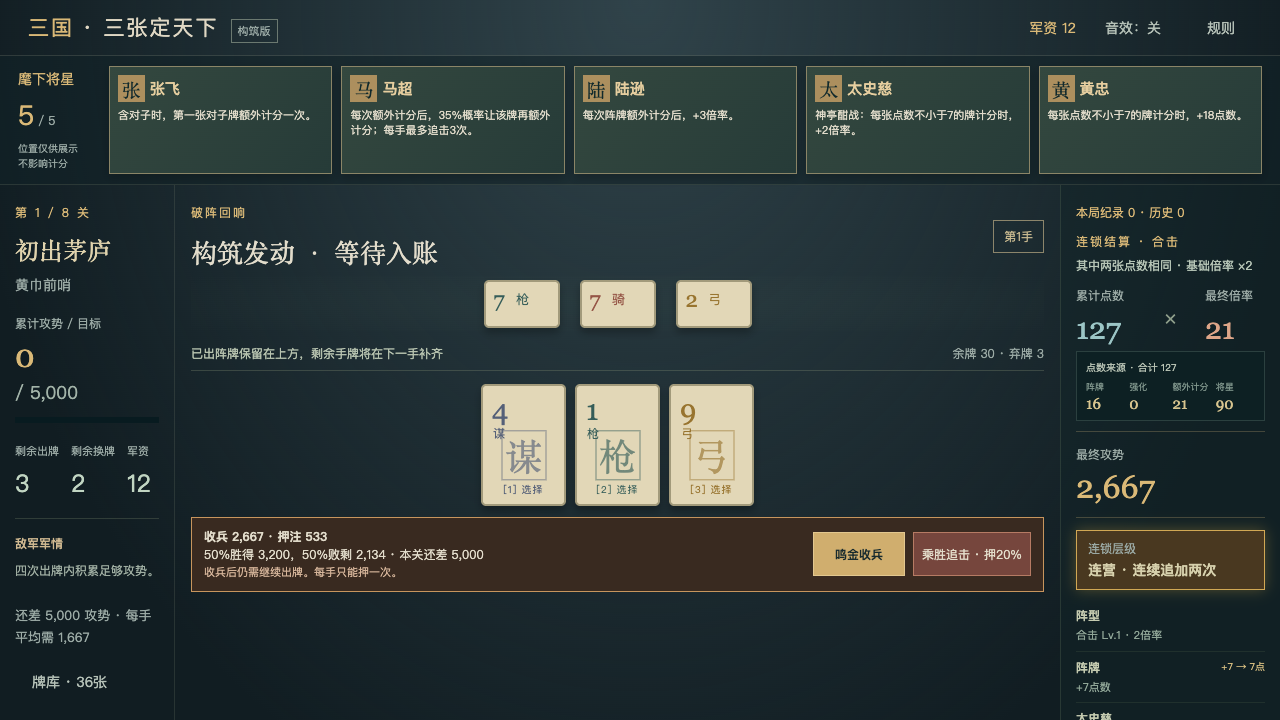
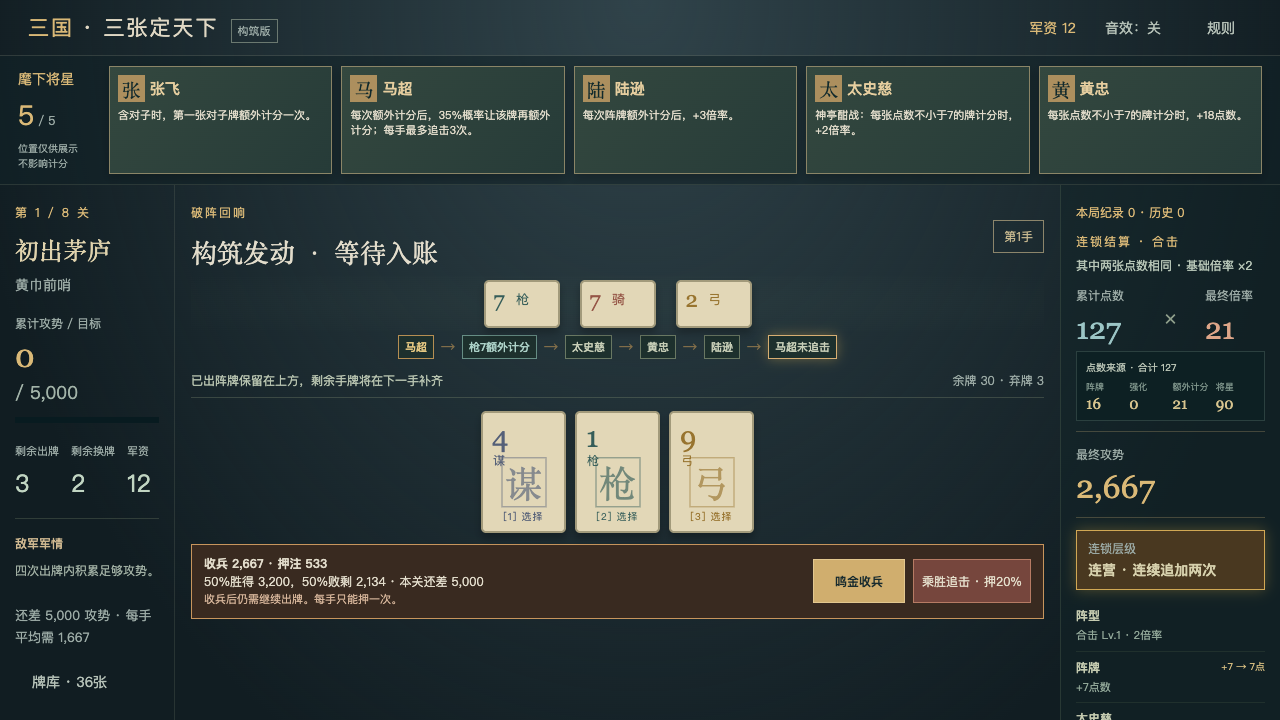
feat: surface settlement causal chains

Changed region(s): [[0.125, 0.5194, 0.8125, 0.8861], [0.1562, 0.4583, 0.6562, 0.55], [0.75, 0.4889, 0.8125, 0.55]]

diff --git a/apps/playtest/src/main.ts b/apps/playtest/src/main.ts
@@ -1,6 +1,7 @@
 import {gamblePanel,rarityPanel} from './burst';
 import {bossPanel} from './boss';
 import {runBossMotion} from './boss-motion';
+import {settlementCausalPanel} from './settlement-causality';
 import {bossEncounter,forgeRule,newForge,forgeAction,forgeView,previewForge,saveForge,loadForge,backupForge,type ForgeState,type ForgeAction,type ArmyCard,type Score} from '@three-card/core';
 import {forgeStage,companionRarity,RARITY_NAMES,COMPANIONS,COMPANION_IDS,EDITS,STAGES,SUITS,FORGE_RULES as R,HAND_NAMES,SUIT_NAMES,type CompanionId,type ForgeEdit} from '@three-card/content';
 const root=document.querySelector<HTMLDivElement>('#app')!;
@@ -38,7 +39,7 @@ function scorePanel(score:Score|null,actual=false){if(!score)return`<p class="ey
 function render(){const v=state?forgeView(state):null;const boss=v?bossEncounter(v):null;const shifted=!!(v?.phase==='result'&&v.settlement!=='pending'&&boss&&v.score<v.target&&v.score>=boss.threshold&&v.score-v.result!.total<boss.threshold);let preview:Score|null=null;if(state&&chosen.length===3&&state.phase==='battle')try{preview=previewForge(state,chosen);}catch{}
 let body='';if(home){body=`<section class="landing"><div><p class="eyebrow">构筑试验 · v0.7 · 将星自由连携</p><h1>三张为阵<br><em>百策成军</em></h1><p class="lead">让一位将星发起额外计分，再看谁会接力响应。<br>三张牌点数相加，再乘阵型倍率。</p><label class="seed-label">征程种子 · 留空随机<input id="seed" maxlength="100" placeholder="输入种子，可重玩同一组随机选择"></label><div class="actions">${btn('启程 · 先选核心','new',false,'primary')}${btn('连锁试玩 · 直达张角','demo')}${state?btn('继续征程','continue'):''}${btn('怎么玩','help')}</div><p class="record-line">历史单手纪录 ${fmt(bestEver)}</p><p class="muted">八关征程 · 12位活跃将星 · 每次只处理一种整编<br>1–6 选牌，Enter 出牌。开局核心可以自由选择。</p></div><div class="landing-art"><div class="disc"></div><img src="./assets/zhao-yun.png" alt="赵云像素立绘"><span>一手牌的强弱<br>由你的构筑决定</span></div></section>`;}
 else if(v){body=band();if(['recruit','forge','shop'].includes(v.phase)){const next=forgeStage({...v,stage:Math.min(7,v.stage+1),challenge:v.stage===7?v.challenge+1:0});body+=`<div class=next-threat><b>斥候来报 · 下一关 ${next.enemy} · 目标 ${fmt(next.target)}</b><span>${next.text}</span></div>`;}if(['recruit','shop'].includes(v.phase))body+=rarityPanel(state!);if(v.phase==='starter'){body+=`<section class="wide-node"><p class="eyebrow">开局征募 · 决定第一步，后面仍可转型</p><h1>这一局，从谁开始？</h1><p>先拿到一个核心，再让奖励、改牌与商店帮你把它变强。</p><div class="recruit-grid">${v.recruits.map(id=>companion(id,`starter:${id}`)).join('')}</div></section>`;}
-else if(['battle','result'].includes(v.phase)){const actual=v.phase==='result',sc=actual?v.result:preview,ready=showAll||animation>=(v.result?.steps.length??0);body+=`<div class="battle-layout ${boss?'boss-battle':''}"><aside class="campaign-panel"><p class="eyebrow">${v.challenge?`极限挑战 · ${v.challenge}层`:`第 ${v.stage+1} / 8 关`}</p><h2>${forgeStage(v).name}</h2><p>${forgeStage(v).enemy}</p><div class="goal"><small>${boss?'已削减兵力 / 总兵力':'累计攻势 / 目标'}</small><b>${fmt(v.score)}</b><span>/ ${fmt(v.target)}</span><progress max="${v.target}" value="${Math.min(v.score,v.target)}"></progress></div><div class="resources"><div><small>剩余出牌</small><b>${v.hands}</b></div><div><small>剩余换牌</small><b>${v.discards}</b></div><div><small>军资</small><b>${v.gold}</b></div></div><div class="boss-rule"><b>${v.pressed?'加压出征 · 目标 +50%':'敌军军情'}</b><p>${boss?boss.current.text:forgeStage(v).text}</p>${forgeRule(v)==='ambush'?`<p class=threat-state>${v.scouted?'本手已破伏击 · 全额攻势':'伏击生效 · 换牌可解除'}</p>`:forgeStage(v).rule==='flank'?`<p class=threat-state>上手首牌：${v.lastSuit?SUIT_NAMES[v.lastSuit]:'尚未出阵'} · 按手牌从左至右判定</p>`:''}</div><p class=remaining-target>还差 ${fmt(Math.max(0,v.target-v.score))} 攻势${v.hands>0?` · 每手平均需 ${fmt(Math.ceil(Math.max(0,v.target-v.score)/v.hands))}`:''}</p>${btn(`牌库 · ${v.army.length}张`,'deck',false,'plain')}</aside><main class="battle-center"><div class="battle-heading"><div><p class="eyebrow">${actual?'破阵回响':'六选三 · 组合你的攻势'}</p><h2>${actual?(v.settlement==='pending'?'构筑发动 · 等待入账':v.score>=v.target?(boss?`${boss.name}已败`:'敌阵已破'):v.hands===0?'此役告终':shifted?'首领变招 · 准备应对':'整军，再出一手'):chosen.length===3?HAND_NAMES[preview!.category]:'选择三张阵牌'}</h2></div><span class="badge">${actual?'第'+v.played+'手':'已选 '+chosen.length+' / 3'}</span></div>${boss?bossPanel(v):''}<div class="played-area">${actual?v.result!.cards.map((c,i)=>`<div class="played-card">${card(c,i)}</div>`).join(''):`<div class="formation-slots">${Array.from({length:3},(_,i)=>{const c=v.hand.filter(c=>chosen.includes(c.id))[i];return c?`<div class="chosen-tile ${c.suit}"><b>${c.rank}</b><span>${SUIT_NAMES[c.suit]}</span>${c.bonus?`<small>+${c.bonus}</small>`:''}</div>`:'<div class="chosen-tile vacant">待命</div>';}).join('')}</div><p class="formation-note">未出牌会留到下一手；出牌按手牌从左至右结算。</p>`}</div><div class="hand-label"><span>${actual?'已出阵牌保留在上方，剩余手牌将在下一手补齐':'手中阵牌'}</span><small>余牌 ${v.drawCount} · 弃牌 ${v.discardCount}</small></div><div class="hand-row">${v.hand.map((c,i)=>card(c,i)).join('')}</div>${actual?gamblePanel(state!,ready):''}<div class="battle-actions">${actual?(v.settlement==='pending'?'':btn(v.score>=v.target?'收取战果 →':v.hands===0?'查看战报 →':shifted?'迎战第二阶段 →':'下一手 →','next',false,'primary next-button')):`${btn(`出阵 · ${preview?fmt(preview.total)+'攻势':'选择3张'}`,'play',chosen.length!==3,'primary')}${btn(`换掉选中 · ${v.discards}次`,'discard',chosen.length<1||v.discards<1)}${btn('清空选择','clear',!chosen.length,'plain')}`}</div></main><aside class="score-panel"><p class="record-line">本局纪录 ${fmt(v.stats.best)} · 历史 ${fmt(bestEver)}</p>${scorePanel(sc,actual)}${!actual?rarityPanel(state!,preview):''}</aside></div>`;}
+else if(['battle','result'].includes(v.phase)){const actual=v.phase==='result',sc=actual?v.result:preview,ready=showAll||animation>=(v.result?.steps.length??0),visible=actual&&!showAll?animation:(v.result?.steps.length??0);body+=`<div class="battle-layout ${boss?'boss-battle':''}"><aside class="campaign-panel"><p class="eyebrow">${v.challenge?`极限挑战 · ${v.challenge}层`:`第 ${v.stage+1} / 8 关`}</p><h2>${forgeStage(v).name}</h2><p>${forgeStage(v).enemy}</p><div class="goal"><small>${boss?'已削减兵力 / 总兵力':'累计攻势 / 目标'}</small><b>${fmt(v.score)}</b><span>/ ${fmt(v.target)}</span><progress max="${v.target}" value="${Math.min(v.score,v.target)}"></progress></div><div class="resources"><div><small>剩余出牌</small><b>${v.hands}</b></div><div><small>剩余换牌</small><b>${v.discards}</b></div><div><small>军资</small><b>${v.gold}</b></div></div><div class="boss-rule"><b>${v.pressed?'加压出征 · 目标 +50%':'敌军军情'}</b><p>${boss?boss.current.text:forgeStage(v).text}</p>${forgeRule(v)==='ambush'?`<p class=threat-state>${v.scouted?'本手已破伏击 · 全额攻势':'伏击生效 · 换牌可解除'}</p>`:forgeStage(v).rule==='flank'?`<p class=threat-state>上手首牌：${v.lastSuit?SUIT_NAMES[v.lastSuit]:'尚未出阵'} · 按手牌从左至右判定</p>`:''}</div><p class=remaining-target>还差 ${fmt(Math.max(0,v.target-v.score))} 攻势${v.hands>0?` · 每手平均需 ${fmt(Math.ceil(Math.max(0,v.target-v.score)/v.hands))}`:''}</p>${btn(`牌库 · ${v.army.length}张`,'deck',false,'plain')}</aside><main class="battle-center"><div class="battle-heading"><div><p class="eyebrow">${actual?'破阵回响':'六选三 · 组合你的攻势'}</p><h2>${actual?(v.settlement==='pending'?'构筑发动 · 等待入账':v.score>=v.target?(boss?`${boss.name}已败`:'敌阵已破'):v.hands===0?'此役告终':shifted?'首领变招 · 准备应对':'整军，再出一手'):chosen.length===3?HAND_NAMES[preview!.category]:'选择三张阵牌'}</h2></div><span class="badge">${actual?'第'+v.played+'手':'已选 '+chosen.length+' / 3'}</span></div>${boss?bossPanel(v):''}<div class="played-area">${actual?v.result!.cards.map((c,i)=>`<div class="played-card">${card(c,i)}</div>`).join(''):`<div class="formation-slots">${Array.from({length:3},(_,i)=>{const c=v.hand.filter(c=>chosen.includes(c.id))[i];return c?`<div class="chosen-tile ${c.suit}"><b>${c.rank}</b><span>${SUIT_NAMES[c.suit]}</span>${c.bonus?`<small>+${c.bonus}</small>`:''}</div>`:'<div class="chosen-tile vacant">待命</div>';}).join('')}</div><p class="formation-note">未出牌会留到下一手；出牌按手牌从左至右结算。</p>`}</div>${actual?settlementCausalPanel(v.result!,visible):''}<div class="hand-label"><span>${actual?'已出阵牌保留在上方，剩余手牌将在下一手补齐':'手中阵牌'}</span><small>余牌 ${v.drawCount} · 弃牌 ${v.discardCount}</small></div><div class="hand-row">${v.hand.map((c,i)=>card(c,i)).join('')}</div>${actual?gamblePanel(state!,ready):''}<div class="battle-actions">${actual?(v.settlement==='pending'?'':btn(v.score>=v.target?'收取战果 →':v.hands===0?'查看战报 →':shifted?'迎战第二阶段 →':'下一手 →','next',false,'primary next-button')):`${btn(`出阵 · ${preview?fmt(preview.total)+'攻势':'选择3张'}`,'play',chosen.length!==3,'primary')}${btn(`换掉选中 · ${v.discards}次`,'discard',chosen.length<1||v.discards<1)}${btn('清空选择','clear',!chosen.length,'plain')}`}</div></main><aside class="score-panel"><p class="record-line">本局纪录 ${fmt(v.stats.best)} · 历史 ${fmt(bestEver)}</p>${scorePanel(sc,actual)}${!actual?rarityPanel(state!,preview):''}</aside></div>`;}
 else if(v.phase==='prepare'){const stage=forgeStage(v);body+=`<section class="wide-node prepare"><div><p class="eyebrow">${v.challenge?`极限挑战 · ${v.challenge}层`:`第 ${v.stage+1} / 8 关`} · ${stage.enemy}</p><h1>${stage.name}</h1><p class="lead">${stage.text}</p><div class="prepare-stats"><span><small>基础目标</small><b>${fmt(stage.target)}</b></span><span><small>出牌次数</small><b>${stage.rule==='last-stand'?3:4}</b></span><span><small>换牌次数</small><b>${2+Number(v.companions.some(c=>c.id==='horse'))}</b></span></div><div class="actions">${btn('稳步进军','begin:normal',false,'primary')}${btn(`加压 · 目标${fmt(Math.ceil(stage.target*1.5))}`,'begin:pressure',false,'danger')}</div><p class="muted">加压胜后额外 +8军资。此选择在本关开始后不可更改。</p></div>${boss?bossPanel(v,true):''}<div class="briefing"><h3>你的构筑</h3>${v.companions.map(c=>`<p><b>${COMPANIONS[c.id].name}</b> · ${COMPANIONS[c.id].hint}</p>`).join('')}${btn('查看完整牌库','deck',false,'plain')}</div></section>`;}
 else if(v.phase==='recruit'){body+=`<section class="wide-node"><p class="eyebrow">战后征募 · 免费获得一位将星</p><h1>下一位同袍</h1><p>候选随机出现。寻找配合，也可以为新的方向留位置。当前军资 ${v.gold}。</p><div class="recruit-grid">${v.recruits.map(id=>companion(id,`recruit:${id}`)).join('')}</div>${btn('暂不征募 · +4军资','recruit:skip',false,'plain')}</section>`;}
 else if(v.phase==='forge'){const edit=v.pendingEdit as ForgeEdit|null;if(!edit)body+=`<section class="wide-node random-forge"><div><p class="eyebrow">战后整编 · 每场一次</p><h1>先揭一策，再由你落子</h1><p class="lead">军师从裁军、募兵、练兵、精锐、改编与研习中随机提出一策。</p><p class="muted">只揭晓一种方式；揭晓后由你选择目标，结果会立即保存，不能重抽。</p></div><div class="random-edit-card"><span class="seal-mark">策</span><b>只揭晓一个结果</b><small>随机出题，你决定改哪张牌</small>${btn('请军师献策','random-edit',false,'primary')}${btn('暂不整编 · +3军资','edit-skip',false,'plain')}</div></section>`;else{const eligible=(c:ArmyCard)=>edit!=='rank'||c.rank<9;body+=`<section class="forge-node"><p class="eyebrow">军师献策 · ${EDITS[edit].name}</p><h1>${EDITS[edit].text}</h1><p class="edit-instruction"><span>本次只处理这一种整编，选择后立即生效。</span><b>${edit==='level'?'选择阵型':edit==='suit'?'先选择阵牌':'选择阵牌'}</b></p>${edit==='level'?`<div class="level-grid">${HAND_NAMES.map((name,i)=>btn(`${name}<b>Lv.${v.levels[i]+1} → Lv.${v.levels[i]+2}</b>`,`apply-level:${i}`)).join('')}</div>`:`<div class="deck-grid">${v.army.map((c,i)=>card(c,i,true,`edit-card:${c.id}`,!eligible(c))).join('')}</div>`}</section>`;}}

diff --git a/tests/browser/burst.spec.ts b/tests/browser/burst.spec.ts
@@ -5,5 +5,7 @@ function fixture(seed:string){let s=newForge(seed);s.phase='prepare';s.companion
 async function load(page:Page,s:ForgeState){const saved:Record<string,string>={};saveForge({get:k=>saved[k]??null,set:(k,v)=>{saved[k]=v;}},s);await page.goto('http://127.0.0.1:4173');await page.evaluate(data=>{localStorage.clear();for(const[k,v]of Object.entries(data))localStorage.setItem(k,v);},saved);await page.reload();await click(page,'continue');}
 async function click(page:Page,a:string){await page.locator(`[data-action="${a}"]`).click();if(!a.startsWith('card:'))await page.waitForTimeout(180);}
 const read=(page:Page)=>page.evaluate(()=>JSON.parse((window as any).render_game_to_text()).view);
-test('burst reveals actual events then settles win and loss without rerolling',async({page})=>{test.setTimeout(60000);await page.setViewportSize({width:1280,height:720});for(const outcome of ['win','loss']){let s=fixture('0');for(let i=0;i<300;i++){s=fixture('ui-burst-'+i);const played=act(s,'play',s.hand.slice(0,3));if(played.result!.bursts>=2&&act(played,'gamble').settlement===outcome)break;if(i===299)throw Error('fixture not found');}await load(page,s);for(const id of s.hand.slice(0,3))await click(page,'card:'+id);await expect(page.locator('.burst-hint')).toContainText('35%');await click(page,'play');expect((await read(page)).score).toBe(0);await expect(page.locator('.total b')).toHaveText('···');await expect(page.locator('.wager-panel')).toBeVisible();await expect(page.locator('.ledger')).toContainText('响应额外计分');const revealed=await read(page);expect(Number(await page.locator('.point-breakdown').getAttribute('data-points-sum'))).toBe(revealed.result.chips);await expect(page.locator('.step-head em').first()).toContainText('→');expect(await page.locator('[data-action=gamble]').evaluate(e=>e.getBoundingClientRect().bottom<=innerHeight)).toBe(true);await page.screenshot({path:`docs/evidence/burst-${outcome}-pending.png`});const pending=await read(page);await page.reload();await click(page,'continue');expect(await read(page)).toEqual(pending);await click(page,'gamble');await expect(page.locator('.wager-result')).toHaveClass(new RegExp(outcome));const settled=await read(page);expect(settled.score).toBe(settled.result.total);await page.screenshot({path:`docs/evidence/burst-${outcome}-settled.png`});await page.reload();await click(page,'continue');expect(await read(page)).toEqual(settled);await expect(page.locator('[data-action=gamble]')).toHaveCount(0);await expect(page.locator('.new-record')).toBeVisible();}});
+test('burst reveals actual events then settles win and loss without rerolling',async({page})=>{test.setTimeout(60000);await page.setViewportSize({width:1280,height:720});for(const outcome of ['win','loss']){let s=fixture('0');for(let i=0;i<300;i++){s=fixture('ui-burst-'+i);const played=act(s,'play',s.hand.slice(0,3));if(played.result!.bursts>=2&&act(played,'gamble').settlement===outcome)break;if(i===299)throw Error('fixture not found');}await load(page,s);for(const id of s.hand.slice(0,3))await click(page,'card:'+id);await expect(page.locator('.burst-hint')).toContainText('35%');await click(page,'play');expect((await read(page)).score).toBe(0);await expect(page.locator('.total b')).toHaveText('···');await expect(page.locator('.causal-chain')).toBeVisible();await expect(page.locator('.causal-chain')).toContainText('额外计分');await expect(page.locator('.wager-panel')).toBeVisible();await expect(page.locator('.ledger')).toContainText('响应额外计分');const revealed=await read(page);expect(Number(await page.locator('.point-breakdown').getAttribute('data-points-sum'))).toBe(revealed.result.chips);await expect(page.locator('.step-head em').first()).toContainText('→');expect(await page.locator('[data-action=gamble]').evaluate(e=>e.getBoundingClientRect().bottom<=innerHeight)).toBe(true);expect(await page.locator('.causal-chain').evaluate(e=>e.getBoundingClientRect().bottom<=innerHeight)).toBe(true);await page.screenshot({path:`docs/evidence/burst-${outcome}-pending.png`});const pending=await read(page);await page.reload();await click(page,'continue');expect(await read(page)).toEqual(pending);await click(page,'gamble');await expect(page.locator('.wager-result')).toHaveClass(new RegExp(outcome));const settled=await read(page);expect(settled.score).toBe(settled.result.total);await page.screenshot({path:`docs/evidence/burst-${outcome}-settled.png`});await page.reload();await click(page,'continue');expect(await read(page)).toEqual(settled);await expect(page.locator('[data-action=gamble]')).toHaveCount(0);await expect(page.locator('.new-record')).toBeVisible();}});
+
+test('skip and reduced motion reveal the causal chain without removing the ledger',async({page})=>{const s=fixture('causal-skip');await load(page,s);for(const id of s.hand.slice(0,3))await click(page,'card:'+id);await click(page,'play');await page.locator('[data-action=skip-animation]').click();await expect(page.locator('.causal-chain')).toBeVisible();await expect(page.locator('.ledger .score-step')).toHaveCount((await read(page)).result.steps.length);await page.emulateMedia({reducedMotion:'reduce'});await page.reload();await click(page,'continue');await expect(page.locator('.causal-chain')).toBeVisible();await expect(page.locator('.ledger')).toBeVisible();});
 test('victory extends into challenge with unchanged build and visible goal',async({page})=>{let s=fixture('endless-ui');s.stage=7;s.phase='victory';s.score=s.target=1900;s.stats.cleared=8;s.stats.best=2200;await load(page,s);await click(page,'extend');await expect(page.locator('.rarity-panel')).toBeVisible();await click(page,'recruit:skip');await click(page,'edit-skip');await click(page,'depart');await expect(page.locator('h1')).toHaveText('极限挑战 · 第1层');await click(page,'begin:normal');const v=await read(page);expect(v.challenge).toBe(1);expect(v.target).toBe(3040);expect(v.army).toEqual(s.army);expect(v.companions).toEqual(s.companions);expect(v.stats.cleared).toBe(8);await page.screenshot({path:'docs/evidence/burst-endless.png'});});

diff --git a/tests/settlement-causality.test.ts b/tests/settlement-causality.test.ts
@@ -1,0 +1,37 @@
+import test from 'node:test';
+import assert from 'node:assert/strict';
+import type {Score,ScoreStep} from '@three-card/core';
+import {settlementCausalChain,settlementCausalPanel} from '../apps/playtest/src/settlement-causality';
+
+const steps:ScoreStep[]=[
+ {source:'阵型',text:'合击 Lv.1 · 2倍率',chips:0,mult:2},
+ {source:'阵牌',text:'+7点数',chips:7,mult:2,cardId:'spear-7'},
+ {source:'张飞',text:'7点牌 · 发起第1次额外计分',chips:7,mult:2,cardId:'spear-7'},
+ {source:'额外计分牌',text:'+7点数',chips:14,mult:2,cardId:'spear-7'},
+ {source:'刘备',text:'低点牌：+10点数、+1倍率',chips:24,mult:3,cardId:'spear-7'},
+ {source:'陆逊',text:'响应额外计分：+3倍率',chips:24,mult:6,cardId:'spear-7'},
+ {source:'马超',text:'追击成功！追加第1/3次',chips:24,mult:6,cardId:'spear-7'},
+ {source:'马超',text:'7点牌 · 发起第2次额外计分',chips:24,mult:6,cardId:'spear-7'},
+ {source:'额外计分牌',text:'+7点数',chips:31,mult:6,cardId:'spear-7'},
+ {source:'阵牌',text:'+2点数',chips:33,mult:6,cardId:'bow-2'},
+];
+const score:Score={category:1,chips:33,mult:6,total:198,steps,cards:[{id:'spear-7',suit:'spear',rank:7,bonus:0},{id:'bow-2',suit:'bow',rank:2,bonus:0},{id:'cavalry-7',suit:'cavalry',rank:7,bonus:0}],growth:{},penalty:1,floor:198,bursts:1};
+
+test('causal chain appears only after a revealed trigger and grows in score-step order',()=>{
+ assert.deepEqual(settlementCausalChain(score,2),[]);
+ assert.deepEqual(settlementCausalChain(score,3).map(node=>node.label),['张飞']);
+ assert.deepEqual(settlementCausalChain(score,7).map(node=>node.label),['张飞','枪7额外计分','刘备','陆逊','马超追击']);
+});
+
+test('a new extra-score trigger starts a new fragment and the next base card keeps it visible',()=>{
+ assert.deepEqual(settlementCausalChain(score,8).map(node=>node.label),['马超']);
+ assert.deepEqual(settlementCausalChain(score,9).map(node=>node.label),['马超','枪7额外计分']);
+ assert.deepEqual(settlementCausalChain(score,10).map(node=>node.label),['马超','枪7额外计分']);
+});
+
+test('panel contains only nodes inside the revealed boundary',()=>{
+ const html=settlementCausalPanel(score,4);
+ assert.match(html,/张飞/);
+ assert.match(html,/枪7额外计分/);
+ assert.doesNotMatch(html,/刘备|陆逊|马超/);
+});

diff --git a/apps/playtest/public/forge.css b/apps/playtest/public/forge.css
@@ -19,3 +19,4 @@
 .demo-strip{margin:10px 24px 0;padding:10px 16px;border:1px solid #b89555;background:#3a3322;color:#d9c18c;display:flex;gap:16px}.demo-strip span{color:#c8cbb7}
 .boss-punished{border-color:#f0c55f;box-shadow:inset 0 0 38px #d5ad383d}.boss-punished .boss-health small{display:block;color:#fff0a6;font-weight:700;font-size:14px;animation:record-pulse .6s ease-out}.boss-sheltered{border-color:#719b83}.boss-sheltered .boss-health small{color:#9fd0ae;font-weight:700}
 .chain-tier{margin:10px 0;padding:9px 11px;border:1px solid #6d785f;background:#26332d}.chain-tier small,.chain-tier b{display:block}.chain-tier b{margin-top:3px;color:#d7d1ad}.chain-tier.tier-1{border-color:#9f8550;background:#393322}.chain-tier.tier-2{border-color:#d1a854;background:#493820;box-shadow:0 0 14px #d8aa4055}.chain-tier.tier-3{border-color:#ffe08a;background:#59401f;box-shadow:0 0 24px #f2bb4d88;animation:record-pulse .7s ease-out}.chain-tier.tier-3 b{color:#ffe696;font-size:17px}@media(prefers-reduced-motion:reduce){.chain-tier.tier-3{animation:none}}
+.causal-chain{min-height:38px;margin:-7px 0 5px;display:flex;align-items:center;justify-content:center;gap:12px;color:#91a798}.causal-chain>small{font-size:10px;letter-spacing:2px;color:#a9976b;white-space:nowrap}.causal-chain>div{display:flex;align-items:center;justify-content:center;gap:7px;min-width:0}.causal-chain i{font-style:normal;color:#826e49}.causal-chain b{font-size:12px;font-weight:500;white-space:nowrap;padding:5px 8px;border:1px solid #697863;background:#1d302d;color:#c6cdb6}.causal-chain b.source{border-color:#b58e52;color:#e6c982}.causal-chain b.card{border-color:#668d84;color:#acd1c7}.causal-chain b.active{box-shadow:0 0 12px #d7ae5266;border-color:#d7ae72}.boss-battle .causal-chain{margin:0 0 3px;min-height:32px}.boss-battle .causal-chain b{padding:3px 6px}@media(max-height:760px){.causal-chain{min-height:30px;margin:-5px 0 2px}.causal-chain b{padding:3px 6px;font-size:11px}.causal-chain>small{display:none}}@media(prefers-reduced-motion:reduce){.causal-chain b.active{box-shadow:none}}

diff --git a/apps/playtest/src/settlement-causality.ts b/apps/playtest/src/settlement-causality.ts
@@ -1,0 +1,44 @@
+import type {Score} from '@three-card/core';
+import {COMPANIONS,SUIT_NAMES} from '@three-card/content';
+
+export interface CausalNode {label:string;kind:'source'|'card'|'response'}
+
+const generalNames:Set<string>=new Set(Object.values(COMPANIONS).map(companion=>companion.name));
+
+export function settlementCausalChain(score:Score,visibleCount:number):CausalNode[]{
+ let current:CausalNode[]|null=null,last:CausalNode[]=[];
+ let cardId:string|undefined;
+ for(const step of score.steps.slice(0,Math.max(0,visibleCount))){
+  if(step.text.includes('发起第')&&step.cardId){
+   current=[{label:step.source,kind:'source'}];
+   cardId=step.cardId;
+   continue;
+  }
+  if(!current)continue;
+  if(step.source==='阵牌'){
+   last=current;
+   current=null;
+   cardId=undefined;
+   continue;
+  }
+  if(step.cardId!==cardId)continue;
+  if(step.source==='额外计分牌'){
+   const card=score.cards.find(item=>item.id===step.cardId);
+   if(card)current.push({label:`${SUIT_NAMES[card.suit]}${card.rank}额外计分`,kind:'card'});
+   continue;
+  }
+  if(generalNames.has(step.source)){
+   const label=step.text.includes('追击成功')?`${step.source}追击`:step.text.includes('未触发')?`${step.source}未追击`:step.source;
+   if(current.at(-1)?.label!==label)current.push({label,kind:'response'});
+  }
+ }
+ return current??last;
+}
+
+const escape=(value:string)=>value.replace(/[&<>"']/g,char=>({'&':'&amp;','<':'&lt;','>':'&gt;','"':'&quot;',"'":'&#39;'}[char]!));
+
+export function settlementCausalPanel(score:Score,visibleCount:number):string{
+ const nodes=settlementCausalChain(score,visibleCount);
+ if(!nodes.length)return'';
+ return `<div class="causal-chain" role="status" aria-label="当前连锁：${nodes.map(node=>escape(node.label)).join('，')}\"><small>本次连锁</small><div>${nodes.map((node,index)=>`${index?'<i aria-hidden="true">→</i>':''}<b class="${node.kind}${index===nodes.length-1?' active':''}">${escape(node.label)}</b>`).join('')}</div></div>`;
+}

diff --git a/openspec/changes/surface-settlement-causality/design.md b/openspec/changes/surface-settlement-causality/design.md
@@ -1,0 +1,41 @@
+## Context
+
+`Score.steps` 已按结算顺序记录来源、说明、累计点数、倍率与关联阵牌。界面逐条揭晓这些步骤，并高亮正在发动的将星，但战场中央只展示三张牌和静态标题，玩家需要转到右侧流水才能拼出因果关系。
+
+## Goals / Non-Goals
+
+**Goals:**
+
+- 在结算进行时，把当前额外计分片段压缩成一条可扫读的短链。
+- 链条严格跟随已经揭晓的步骤，与右侧流水和将星高亮同步。
+- 直接看结果和减少动态效果时，显示已经结算完成的最后一条链。
+
+**Non-Goals:**
+
+- 不预测出牌结果，不推荐选牌或构筑。
+- 不重写结算流水，不改变动画计时和声音。
+- 不增加美术资产、规则字段、存档字段或随机调用。
+- 不处理招募提示和Boss条件提示。
+
+## Decisions
+
+### 从现有计分步骤派生，不扩展规则模型
+
+渲染辅助函数读取当前可见的 `ScoreStep`。最近一个说明中含“发起”的步骤作为片段起点；随后出现的“额外计分牌”转换为具体兵种与点数，其余将星来源依次成为响应节点。遇到下一张普通“阵牌”时保留上一条完整链，遇到新的发起步骤时开始新链。
+
+备选方案是在规则内核写入父子事件ID，但本次展示不需要跨分支追踪，引入存档字段会扩大范围。
+
+### 战场中央只显示当前一条链
+
+链条最多呈现当前片段中的少量节点，以箭头连接，并突出最后揭晓的节点。完整历史继续留在右侧流水，避免中央区域变成第二份日志。
+
+### 没有额外计分时不占空间
+
+普通阵牌计分不显示空链或教学文字。只有已经揭晓至少一个发起步骤时才渲染，保证新增元素代表真实组合发动。
+
+## Risks / Trade-offs
+
+- [连续追击会快速切换片段] → 每次新的马超发起自然成为新链，完整历史仍在右侧可查。
+- [窄屏高度不足] → 使用单行可横向收缩的短条，不增加战斗主区域最小高度；在1280×720浏览器测试中验证操作按钮仍可见。
+- [来源文本变化导致识别失败] → 对现有“发起”语义添加纯函数测试，并保留无匹配时不渲染的安全退化。
+

diff --git a/openspec/changes/surface-settlement-causality/specs/settlement-causality/spec.md b/openspec/changes/surface-settlement-causality/specs/settlement-causality/spec.md
@@ -1,0 +1,37 @@
+## ADDED Requirements
+
+### Requirement: Revealed causal chain
+During post-play settlement, the interface SHALL derive a compact causal chain only from score steps that have already been revealed and SHALL place it in the central battle area.
+
+#### Scenario: Additional scoring unfolds
+- **WHEN** a general's additional-scoring source, the repeated card score, and response generals are revealed in sequence
+- **THEN** the central chain adds the source general, the identified card's additional score, and each revealed response in that same order
+
+#### Scenario: No source has been revealed
+- **WHEN** the visible settlement steps contain no additional-scoring source
+- **THEN** the central battle area shows no causal-chain placeholder
+
+### Requirement: Hidden random results remain hidden
+The causal chain SHALL NOT include an unrevealed pursuit result, future score step, or final score while the existing settlement animation has not revealed it.
+
+#### Scenario: Ma Chao pursuit is pending
+- **WHEN** visible steps end before the saved pursuit result is revealed
+- **THEN** the causal chain contains no success, failure, or subsequent pursuit node
+
+### Requirement: Existing settlement controls remain intact
+The causal chain SHALL preserve the complete ledger, active-general highlight, direct-result action, reduced-motion behavior, wager flow, and keyboard controls.
+
+#### Scenario: Player skips settlement animation
+- **WHEN** the player chooses the existing direct-result action
+- **THEN** the final score and last completed causal chain appear without changing the saved result
+
+#### Scenario: Reduced motion is enabled
+- **WHEN** the operating system requests reduced motion before a hand is played
+- **THEN** settlement opens in its completed state with the same final causal chain and no timed reveal requirement
+
+### Requirement: Presentation-only change
+The implementation SHALL NOT change score calculation, content values, random streams, save data, Boss state, rewards, or available player actions.
+
+#### Scenario: Existing deterministic result is rendered
+- **WHEN** the same saved result is rendered before and after the presentation change
+- **THEN** its cards, steps, score, settlement state, and available actions are identical

diff --git a/docs/evidence/SETTLEMENT_CAUSALITY_V07.md b/docs/evidence/SETTLEMENT_CAUSALITY_V07.md
@@ -1,0 +1,26 @@
+# v0.7 结算因果链验证
+
+## 验证目标
+
+只改善出牌后的因果可读性，不修改计分、随机、关卡、武将能力或玩家行动。中央战斗区显示当前或最近一次已经揭晓的链条，例如“马超 → 枪7额外计分 → 太史慈 → 黄忠 → 陆逊 → 马超未追击”。
+
+## 结果
+
+- 因果链完全由现有 `Score.steps` 推导，没有增加存档或规则状态。
+- 动画每揭晓一步才增加对应节点；尚未揭晓的追击结果不会提前出现。
+- 新一次额外计分会开始新的短链，下一张普通阵牌出现后保留刚完成的链，便于玩家回看。
+- 跳过动画和系统“减少动态效果”会立即显示完整已结算链；右侧逐项账本继续存在。
+- 1280 × 720 画面中，六节点链、手牌、押注按钮与 Boss 战斗区均保持可见，没有横向溢出。
+
+视觉证据：[burst-win-pending.png](burst-win-pending.png)
+
+## 自动验证
+
+- `npm test`：43 项通过。
+- `npm run test:browser`：9 项通过。
+- `npm run build`：通过。
+- `npm run package:mac`：生成 macOS arm64 包。
+- `npm run package:win`：生成 Windows x64 包；这是交叉打包，不等同于 Windows 原生运行验证。
+- `npm run test:desktop:forge`：当前本机构建完整征程、暂停和重启恢复通过。
+
+规则内核与内容目录无改动；这一步只改变结算后的呈现。

diff --git a/openspec/changes/surface-settlement-causality/proposal.md b/openspec/changes/surface-settlement-causality/proposal.md
@@ -1,0 +1,25 @@
+## Why
+
+现有结算已经按真实顺序保存发起者、阵牌额外计分、响应者与追击结果，但关键关系主要出现在右侧长流水中。玩家能看到分数上涨，却难以在战场中央直接感受到“这次连锁是谁带起来的”。
+
+## What Changes
+
+- 在出牌后的逐步结算中，从已经揭晓的计分步骤提取当前因果片段。
+- 在战场中央显示一条短链，例如“周瑜 → 枪3额外计分 → 刘备 → 陆逊”，并随现有动画步骤更新。
+- 只显示已经发生的步骤，不提前揭示马超追击结果或未来分数。
+- 保留右侧完整流水、直接看结果、减少动态效果与现有将星高亮。
+- 不增加出牌前推荐、最佳组合提示、招募联动提示、规则、数值、资源、动画素材或音效。
+
+## Capabilities
+
+### New Capabilities
+
+- `settlement-causality`: 在结算过程中用现有计分步骤呈现当前已经发生的将星连锁因果。
+
+### Modified Capabilities
+
+无。
+
+## Impact
+
+仅影响浏览器渲染辅助函数、战斗结算区域样式与浏览器测试截图。规则内核、内容、随机、存档、Boss状态和桌面封装保持不变。

diff --git a/openspec/changes/surface-settlement-causality/tasks.md b/openspec/changes/surface-settlement-causality/tasks.md
@@ -1,0 +1,16 @@
+## 1. Causal-chain derivation
+
+- [x] 1.1 Derive a compact causal fragment from only the score steps already revealed by settlement animation
+- [x] 1.2 Add unit coverage for trigger, response, reset, and hidden-future boundaries
+
+## 2. Battle presentation
+
+- [x] 2.1 Render the current or most recently completed causal fragment in the battle center during settlement
+- [x] 2.2 Style the fragment as a compact one-line chain without displacing the existing hand, wager, or boss controls
+- [x] 2.3 Add browser coverage for animated reveal, skip, reduced motion, and the existing settlement ledger
+
+## 3. Verification
+
+- [x] 3.1 Run unit tests, browser tests, and production build
+- [x] 3.2 Inspect the 1280 by 720 settlement evidence and record the presentation result
+- [x] 3.3 Validate the OpenSpec change and confirm no gameplay rule or state changed
